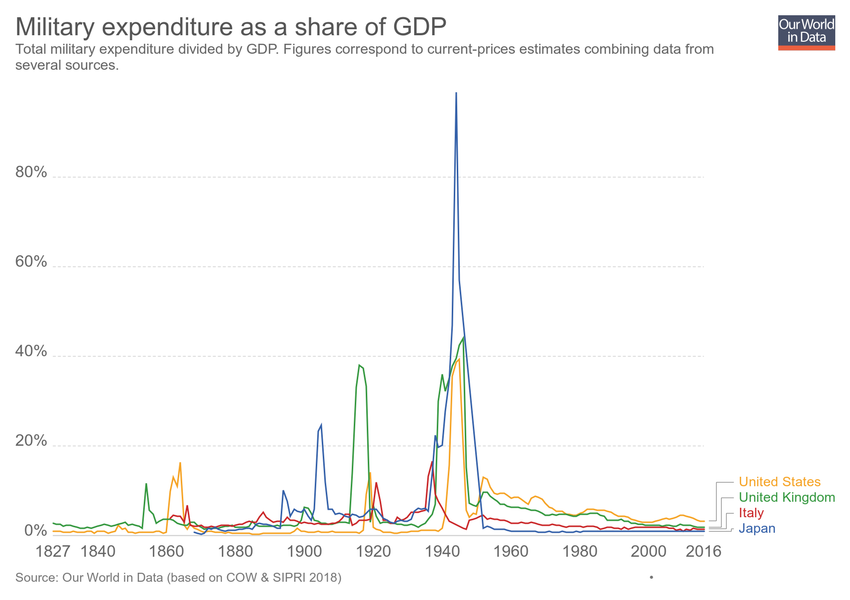
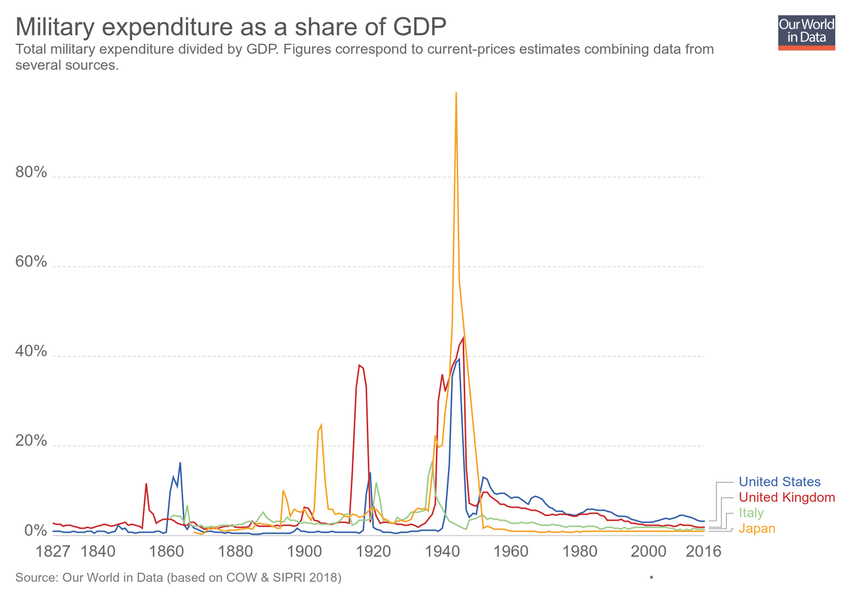
Updating chart military-expenditure-as-a-share-of-gdp

Changed region(s): [[0.0612, 0.18, 0.8259, 0.9], [0.8565, 0.78, 0.9788, 0.9], [0.3976, 0.6, 0.4282, 0.63]]

diff --git a/grapher/military-expenditure-as-a-share-of-gdp.html b/grapher/military-expenditure-as-a-share-of-gdp.html
@@ -1,4 +1,4 @@
-<!doctype html><html><head><meta name="viewport" content="width=device-width, initial-scale=1" /><title>Military expenditure as a share of GDP - Our World in Data</title><meta name="description" content="Total military expenditure divided by GDP. Figures correspond to current-prices estimates combining data from several sources." /><link rel="canonical" href="https://ourworldindata.org/grapher/military-expenditure-as-a-share-of-gdp" /><meta property="fb:app_id" content="1149943818390250" /><meta property="og:url" content="https://ourworldindata.org/grapher/military-expenditure-as-a-share-of-gdp" /><meta property="og:title" content="Military expenditure as a share of GDP" /><meta property="og:description" content="Total military expenditure divided by GDP. Figures correspond to current-prices estimates combining data from several sources." /><meta property="og:image" content="https://ourworldindata.org/grapher/exports/military-expenditure-as-a-share-of-gdp.png?v=7" /><meta property="og:image:width" content="850" /><meta property="og:image:height" content="600" /><meta property="og:site_name" content="Our World in Data" /><meta name="twitter:card" content="summary_large_image" /><meta name="twitter:site" content="@OurWorldInData" /><meta name="twitter:creator" content="@OurWorldInData" /><meta name="twitter:title" content="Military expenditure as a share of GDP" /><meta name="twitter:description" content="Total military expenditure divided by GDP. Figures correspond to current-prices estimates combining data from several sources." /><meta name="twitter:image" content="https://ourworldindata.org/grapher/exports/military-expenditure-as-a-share-of-gdp.png?v=7" /><style>
+<!doctype html><html><head><meta name="viewport" content="width=device-width, initial-scale=1" /><title>Military expenditure as a share of GDP - Our World in Data</title><meta name="description" content="Total military expenditure divided by GDP. Figures correspond to current-prices estimates combining data from several sources." /><link rel="canonical" href="https://ourworldindata.org/grapher/military-expenditure-as-a-share-of-gdp" /><meta property="fb:app_id" content="1149943818390250" /><meta property="og:url" content="https://ourworldindata.org/grapher/military-expenditure-as-a-share-of-gdp" /><meta property="og:title" content="Military expenditure as a share of GDP" /><meta property="og:description" content="Total military expenditure divided by GDP. Figures correspond to current-prices estimates combining data from several sources." /><meta property="og:image" content="https://ourworldindata.org/grapher/exports/military-expenditure-as-a-share-of-gdp.png?v=8" /><meta property="og:image:width" content="850" /><meta property="og:image:height" content="600" /><meta property="og:site_name" content="Our World in Data" /><meta name="twitter:card" content="summary_large_image" /><meta name="twitter:site" content="@OurWorldInData" /><meta name="twitter:creator" content="@OurWorldInData" /><meta name="twitter:title" content="Military expenditure as a share of GDP" /><meta name="twitter:description" content="Total military expenditure divided by GDP. Figures correspond to current-prices estimates combining data from several sources." /><meta name="twitter:image" content="https://ourworldindata.org/grapher/exports/military-expenditure-as-a-share-of-gdp.png?v=8" /><style>
         html, body {
             height: 100%;
             margin: 0;
@@ -20,8 +20,8 @@
         }
     </style><noscript><style>
                     figure { display: none !important; }
-                </style></noscript><link rel="stylesheet" href="https://ourworldindata.org/grapher/assets/commons.bundle.62f8703dfc964fd3975c.css" /><link rel="preload" href="/grapher/data/variables/96652.json?v=7" as="fetch" crossorigin /></head><body class="singleChart"><figure data-grapher-src="/grapher/military-expenditure-as-a-share-of-gdp"></figure><noscript id="fallback"><img src="/grapher/exports/military-expenditure-as-a-share-of-gdp.svg" /><p>Interactive visualization requires JavaScript</p></noscript><script src="https://cdn.polyfill.io/v2/polyfill.min.js?features=es6,fetch"></script><script src="https://ourworldindata.org/grapher/assets/commons.bundle.62f8703dfc964fd3975c.js"></script><script src="https://ourworldindata.org/grapher/assets/charts.bundle.dcf65b68eddaba4c6a58.js"></script><script>
-        var jsonConfig = {"id":2553,"map":{"projection":"World","targetYear":2000,"variableId":96652,"baseColorScheme":"YlOrRd","colorSchemeLabels":[],"colorSchemeValues":[],"colorSchemeMinValue":0,"customNumericColors":[],"customCategoryColors":{},"customCategoryLabels":{},"customHiddenCategories":{}},"tab":"chart","slug":"military-expenditure-as-a-share-of-gdp","type":"LineChart","title":"Military expenditure as a share of GDP","xAxis":{"scaleType":"linear"},"yAxis":{"min":0,"scaleType":"linear"},"version":7,"subtitle":"Total military expenditure divided by GDP. Figures correspond to current-prices estimates combining data from several sources.","hasMapTab":true,"stackMode":"absolute","dimensions":[{"display":{},"property":"y","variableId":96652}],"hasChartTab":true,"isPublished":true,"selectedData":[{"index":0,"entityId":13},{"index":0,"entityId":1},{"index":0,"entityId":8},{"index":0,"entityId":14}],"addCountryMode":"add-country"};
+                </style></noscript><link rel="stylesheet" href="https://ourworldindata.org/grapher/assets/commons.bundle.62f8703dfc964fd3975c.css" /><link rel="preload" href="/grapher/data/variables/96652.json?v=8" as="fetch" crossorigin /></head><body class="singleChart"><figure data-grapher-src="/grapher/military-expenditure-as-a-share-of-gdp"></figure><noscript id="fallback"><img src="/grapher/exports/military-expenditure-as-a-share-of-gdp.svg" /><p>Interactive visualization requires JavaScript</p></noscript><script src="https://cdn.polyfill.io/v2/polyfill.min.js?features=es6,fetch"></script><script src="https://ourworldindata.org/grapher/assets/commons.bundle.62f8703dfc964fd3975c.js"></script><script src="https://ourworldindata.org/grapher/assets/charts.bundle.dcf65b68eddaba4c6a58.js"></script><script>
+        var jsonConfig = {"id":2553,"map":{"projection":"World","targetYear":2000,"variableId":96652,"baseColorScheme":"YlOrRd","colorSchemeLabels":[],"colorSchemeValues":[],"colorSchemeMinValue":0,"customNumericColors":[],"customCategoryColors":{},"customCategoryLabels":{},"customHiddenCategories":{}},"tab":"chart","slug":"military-expenditure-as-a-share-of-gdp","type":"LineChart","title":"Military expenditure as a share of GDP","xAxis":{"scaleType":"linear"},"yAxis":{"min":0,"scaleType":"linear"},"version":8,"subtitle":"Total military expenditure divided by GDP. Figures correspond to current-prices estimates combining data from several sources.","hasMapTab":true,"stackMode":"absolute","dimensions":[{"display":{},"property":"y","variableId":96652}],"hasChartTab":true,"isPublished":true,"selectedData":[{"color":"#3360a9","index":0,"entityId":13},{"color":"#ca2628","index":0,"entityId":1},{"color":"#9ecc8a","index":0,"entityId":8},{"color":"#f6a324","index":0,"entityId":14}],"addCountryMode":"add-country"};
         var figure = document.getElementsByTagName("figure")[0];
         try {
             window.App = {};
